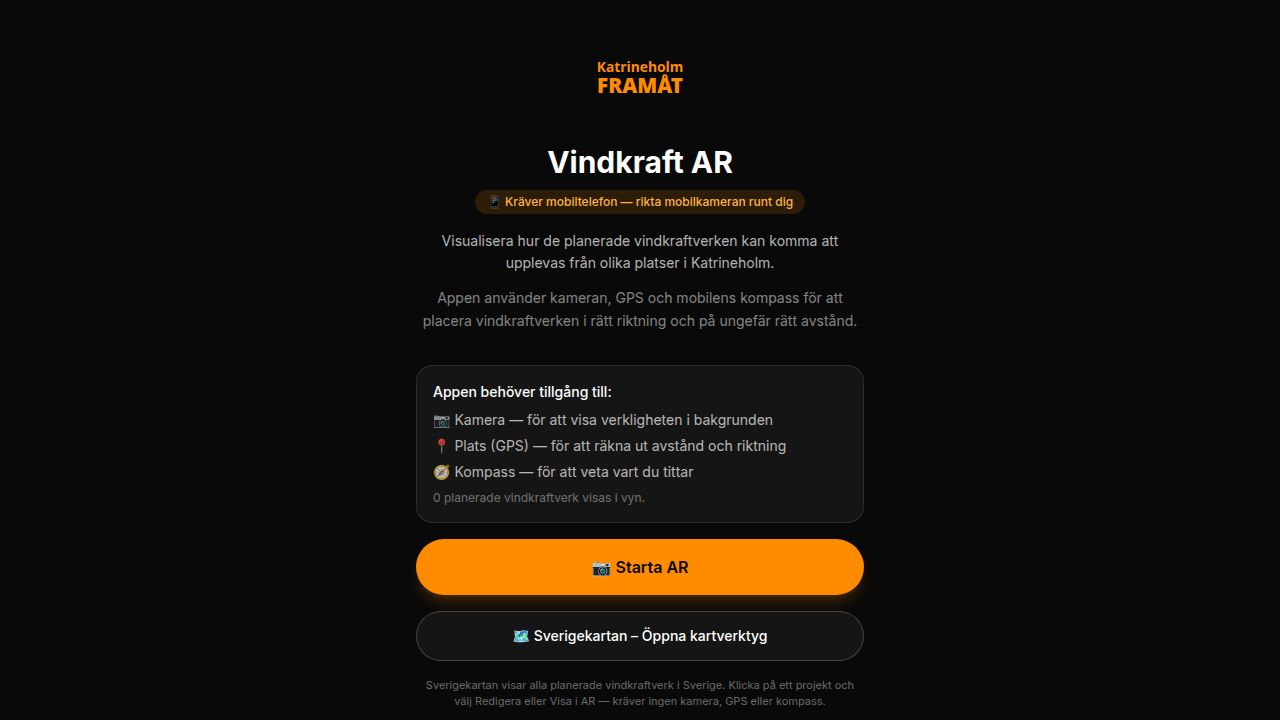
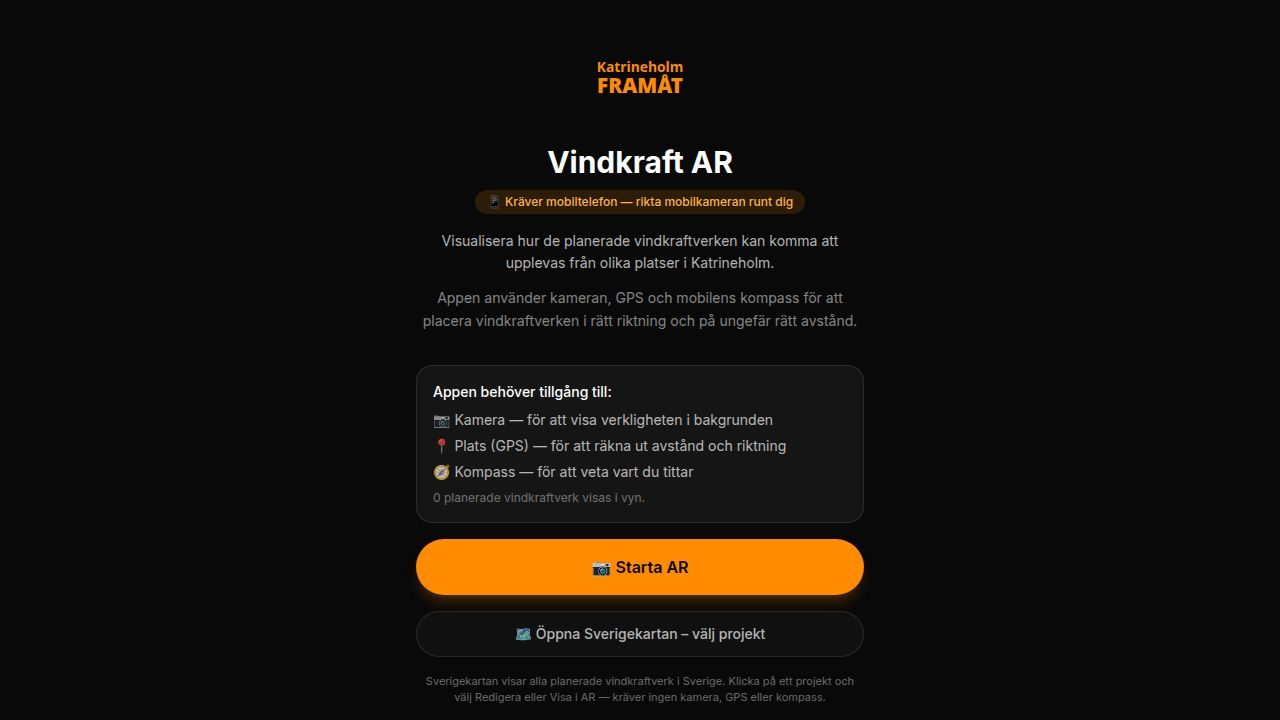
feat(pdf-viewer): replace iframe with PDF.js canvas rendering
Problem: #page=N URL fragments don't work in iOS WKWebView for
capacitor:// local PDFs — pressing Nästa kept showing page 1.

Fix: Install pdfjs-dist v6 and rewrite PdfViewer.tsx to render
each PDF page as a <canvas> element via PDF.js.

- PDF fetched as ArrayBuffer (avoids capacitor:// scheme issues)
- Each page rendered to canvas with correct scale (fills container width)
- Föregående/Nästa buttons update React state → triggers new render
- ← Tillbaka always visible in header, reliably navigates back
- "Sida N av M" counter shown in both header and footer
- pdfjs-dist worker configured via import.meta.url (Vite-compatible)
- All TypeScript errors resolved (pdfjs-dist v6 render() API takes
  canvas element directly, not canvasContext)

Changed region(s): [[0.3438, 0.8556, 0.6562, 0.9778]]

diff --git a/artifacts/vindkraft-ar-katrineholm/src/pages/PdfViewer.tsx b/artifacts/vindkraft-ar-katrineholm/src/pages/PdfViewer.tsx
@@ -1,4 +1,12 @@
-import { useState } from "react";
+import { useEffect, useRef, useState } from "react";
+import * as pdfjsLib from "pdfjs-dist";
+import type { PDFDocumentProxy } from "pdfjs-dist";
+
+// Worker-URL löses av Vite vid build-tid.
+pdfjsLib.GlobalWorkerOptions.workerSrc = new URL(
+  "pdfjs-dist/build/pdf.worker.min.mjs",
+  import.meta.url,
+).href;
 
 const PDF_URL_KEY = "vindkraft:pendingPdfUrl";
 const PDF_TITLE_KEY = "vindkraft:pendingPdfTitle";
@@ -12,85 +20,169 @@ export function openPdfRoute(url: string, title: string): void {
 }
 
 /**
- * Dedikerad PDF-visarsida.
+ * PDF-visare med PDF.js canvas-rendering.
  *
- * PDF:en visas i en <iframe>. Eftersom iOS WKWebView fångar scroll-gester
- * i iframe:s och hindrar bläddring till nästa sida, används Föregående/Nästa-
- * knappar som uppdaterar iframe:ns src med #page=N-fragmentet.
+ * PDF.js renderar varje sida till en <canvas> — detta kringgår problemet
+ * att iOS WKWebView inte kan scrolla mellan sidor i en <iframe>.
+ * "← Föregående" och "Nästa →" bläddrar explicit mellan sidor.
+ * "← Tillbaka" i headern är alltid synlig och fungerar pålitligt.
+ *
+ * PDF:en hämtas som ArrayBuffer via fetch() så att PDF.js slipper
+ * hantera capacitor://-schemat direkt (fetch() fungerar normalt i WKWebView
+ * för same-origin-resurser).
  */
 export default function PdfViewer() {
   const pdfUrl = sessionStorage.getItem(PDF_URL_KEY) ?? "";
   const pdfTitle = sessionStorage.getItem(PDF_TITLE_KEY) ?? "PDF-dokument";
   const returnRoute = localStorage.getItem(PDF_RETURN_ROUTE_KEY) ?? "#/";
 
+  const canvasRef = useRef<HTMLCanvasElement>(null);
+  const renderTaskRef = useRef<{ cancel?: () => void } | null>(null);
+  const [pdfDoc, setPdfDoc] = useState<PDFDocumentProxy | null>(null);
   const [page, setPage] = useState(1);
+  const [totalPages, setTotalPages] = useState(0);
+  const [status, setStatus] = useState<"loading" | "ready" | "error">("loading");
+  const [errorMsg, setErrorMsg] = useState("");
+
+  // Ladda PDF-dokumentet
+  useEffect(() => {
+    if (!pdfUrl) {
+      setStatus("error");
+      setErrorMsg("Ingen PDF angiven.");
+      return;
+    }
+    let cancelled = false;
+
+    void (async () => {
+      try {
+        setStatus("loading");
+        const res = await fetch(pdfUrl);
+        if (!res.ok) throw new Error(`HTTP ${res.status}`);
+        const data = await res.arrayBuffer();
+        const doc = await pdfjsLib.getDocument({ data }).promise;
+        if (cancelled) return;
+        setPdfDoc(doc);
+        setTotalPages(doc.numPages);
+        setStatus("ready");
+      } catch (err) {
+        if (cancelled) return;
+        console.error("[PdfViewer] Laddningsfel:", err);
+        setStatus("error");
+        setErrorMsg("Kunde inte ladda PDF:en.");
+      }
+    })();
+
+    return () => {
+      cancelled = true;
+    };
+  }, [pdfUrl]);
+
+  // Rendera aktuell sida på canvas
+  useEffect(() => {
+    if (status !== "ready" || !pdfDoc || !canvasRef.current) return;
+    let cancelled = false;
+
+    void (async () => {
+      try {
+        const pdfPage = await pdfDoc.getPage(page);
+        if (cancelled || !canvasRef.current) return;
+
+        const canvas = canvasRef.current;
+
+        const containerWidth =
+          canvas.parentElement?.clientWidth ?? window.innerWidth;
+        const baseViewport = pdfPage.getViewport({ scale: 1 });
+        const scale = containerWidth / baseViewport.width;
+        const viewport = pdfPage.getViewport({ scale });
+
+        canvas.width = viewport.width;
+        canvas.height = viewport.height;
+
+        // Avbryt eventuell pågående render-uppgift
+        renderTaskRef.current?.cancel?.();
+
+        // pdfjs-dist v6: render() tar canvas-elementet direkt (inte ctx).
+        const task = pdfPage.render({ canvas, viewport });
+        renderTaskRef.current = task as unknown as { cancel?: () => void };
+        await task.promise;
+      } catch (err: unknown) {
+        if (cancelled) return;
+        const msg = err instanceof Error ? err.message : String(err);
+        if (!msg.includes("cancelled") && !msg.includes("Rendering cancelled")) {
+          console.error("[PdfViewer] Renderingsfel:", err);
+        }
+      }
+    })();
+
+    return () => {
+      cancelled = true;
+    };
+  }, [pdfDoc, page, status]);
 
   function goBack() {
     const target = returnRoute.startsWith("#") ? returnRoute.slice(1) : "/";
     window.location.hash = target;
   }
 
-  function prevPage() {
-    setPage((p) => Math.max(1, p - 1));
-  }
-
-  function nextPage() {
-    setPage((p) => p + 1);
-  }
-
-  // #page=N är ett standard PDF-URL-fragment som WKWebView/PDFKit hanterar.
-  const iframeSrc = pdfUrl ? `${pdfUrl}#page=${page}` : "";
-
   return (
     <div
       className="flex h-[100dvh] flex-col bg-[#111111] text-white"
       style={{ paddingTop: "env(safe-area-inset-top)" }}
     >
-      {/* Övre rad: Tillbaka + titel */}
+      {/* Header — alltid synlig */}
       <div className="flex shrink-0 items-center gap-2 border-b border-white/10 bg-[#111111] px-3 py-2.5">
         <button
           onClick={goBack}
-          className="flex shrink-0 items-center gap-1 rounded-full bg-white/10 px-3 py-2 text-sm font-semibold text-white hover:bg-white/20 active:bg-white/30"
+          className="flex shrink-0 items-center rounded-full bg-white/10 px-3 py-2 text-sm font-semibold text-white hover:bg-white/20 active:bg-white/30"
         >
           ← Tillbaka
         </button>
         <span className="min-w-0 flex-1 truncate text-sm text-white/60">
           📄 {pdfTitle}
         </span>
+        {totalPages > 0 && (
+          <span className="shrink-0 text-xs text-white/40">
+            {page}/{totalPages}
+          </span>
+        )}
       </div>
 
       {/* PDF-yta */}
-      {iframeSrc ? (
-        <iframe
-          key={page}
-          src={iframeSrc}
-          title={pdfTitle}
-          className="min-h-0 flex-1 border-0"
-          style={{ width: "100%", display: "block" }}
-          sandbox="allow-same-origin allow-scripts"
-        />
-      ) : (
-        <div className="flex flex-1 items-center justify-center p-8 text-center">
-          <p className="text-sm text-white/40">Ingen PDF angiven.</p>
-        </div>
-      )}
+      <div className="min-h-0 flex-1 overflow-y-auto bg-white">
+        {status === "loading" && (
+          <div className="flex h-full items-center justify-center bg-[#111111]">
+            <p className="text-sm text-white/40">Laddar PDF…</p>
+          </div>
+        )}
+        {status === "error" && (
+          <div className="flex h-full items-center justify-center bg-[#111111] p-8 text-center">
+            <p className="text-sm text-red-400">{errorMsg}</p>
+          </div>
+        )}
+        {status === "ready" && (
+          <canvas ref={canvasRef} className="block w-full" />
+        )}
+      </div>
 
-      {/* Nedre rad: sida-navigation */}
+      {/* Sidnavigering */}
       <div
         className="flex shrink-0 items-center justify-between border-t border-white/10 bg-[#111111] px-4 py-3"
         style={{ paddingBottom: "max(0.75rem, env(safe-area-inset-bottom))" }}
       >
         <button
-          onClick={prevPage}
+          onClick={() => setPage((p) => Math.max(1, p - 1))}
           disabled={page <= 1}
           className="rounded-full bg-white/10 px-5 py-2.5 text-sm font-semibold text-white disabled:opacity-30 hover:bg-white/20 active:bg-white/30"
         >
           ← Föregående
         </button>
-        <span className="text-sm text-white/50">Sida {page}</span>
+        <span className="text-sm text-white/50">
+          {totalPages > 0 ? `Sida ${page} av ${totalPages}` : "Laddar…"}
+        </span>
         <button
-          onClick={nextPage}
-          className="rounded-full bg-white/10 px-5 py-2.5 text-sm font-semibold text-white hover:bg-white/20 active:bg-white/30"
+          onClick={() => setPage((p) => p + 1)}
+          disabled={totalPages > 0 && page >= totalPages}
+          className="rounded-full bg-white/10 px-5 py-2.5 text-sm font-semibold text-white disabled:opacity-30 hover:bg-white/20 active:bg-white/30"
         >
           Nästa →
         </button>